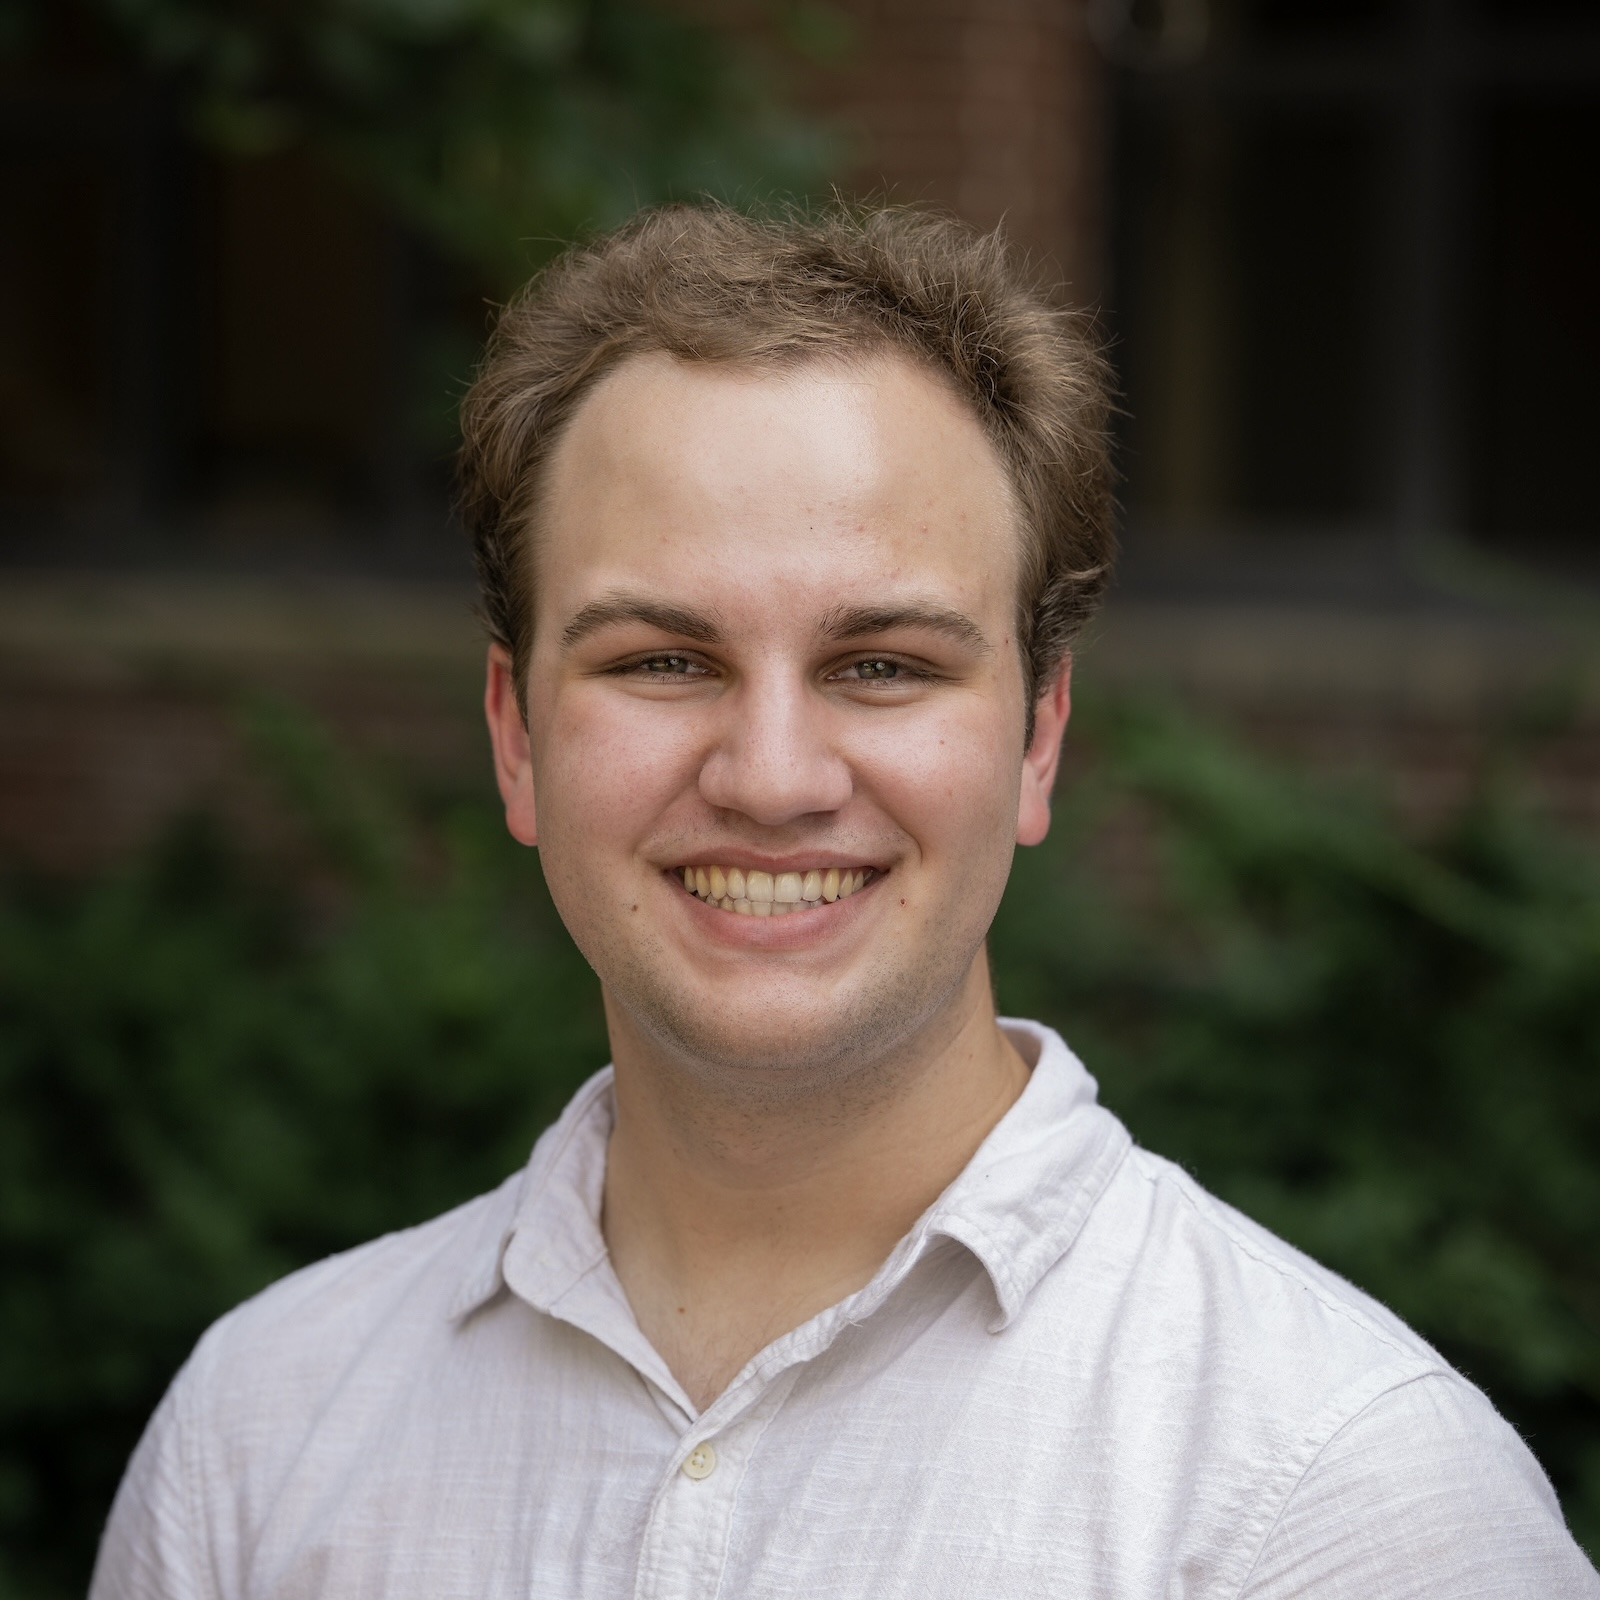
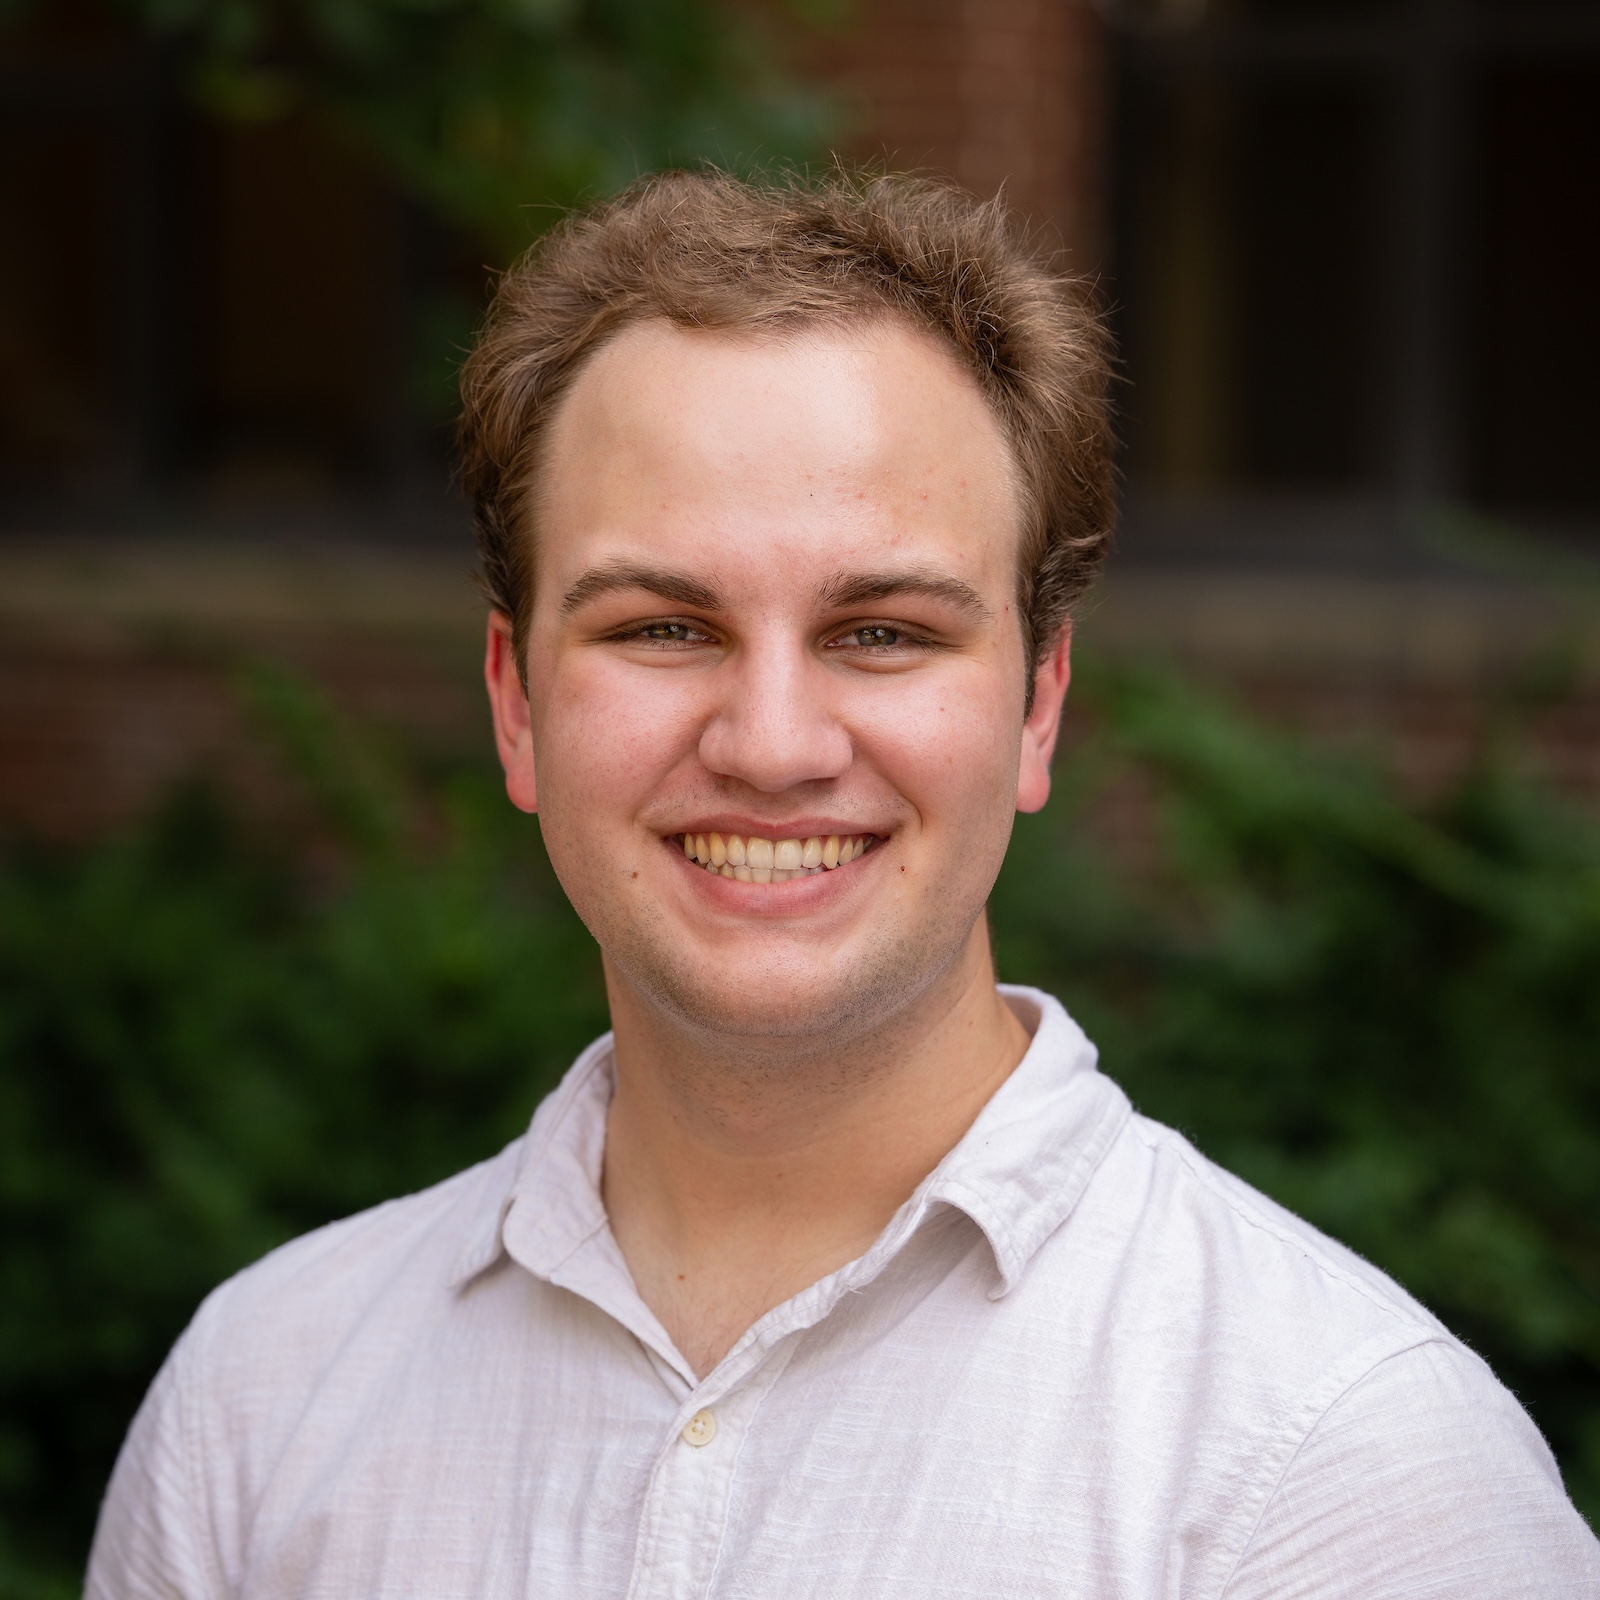
Change profile pic filter

diff --git a/project/biostat882project/index.html b/project/biostat882project/index.html
@@ -1073,7 +1073,7 @@
   <div class="media author-card content-widget-hr">
     
       
-      <a href="https://timwhite0.github.io/"><img class="avatar mr-3 avatar-circle" src="/authors/admin/avatar_hufab0aff3a142780f7219b3a0407422a6_476703_270x270_fill_q75_lanczos_center.jpg" alt="Tim White"></a>
+      <a href="https://timwhite0.github.io/"><img class="avatar mr-3 avatar-circle" src="/authors/admin/avatar_hufab0aff3a142780f7219b3a0407422a6_500962_270x270_fill_q75_lanczos_center.jpg" alt="Tim White"></a>
     
 
     <div class="media-body">

diff --git a/project/mlbdash/index.html b/project/mlbdash/index.html
@@ -1087,7 +1087,7 @@
   <div class="media author-card content-widget-hr">
     
       
-      <a href="https://timwhite0.github.io/"><img class="avatar mr-3 avatar-circle" src="/authors/admin/avatar_hufab0aff3a142780f7219b3a0407422a6_476703_270x270_fill_q75_lanczos_center.jpg" alt="Tim White"></a>
+      <a href="https://timwhite0.github.io/"><img class="avatar mr-3 avatar-circle" src="/authors/admin/avatar_hufab0aff3a142780f7219b3a0407422a6_500962_270x270_fill_q75_lanczos_center.jpg" alt="Tim White"></a>
     
 
     <div class="media-body">

diff --git a/project/stats601project/index.html b/project/stats601project/index.html
@@ -1071,7 +1071,7 @@
   <div class="media author-card content-widget-hr">
     
       
-      <a href="https://timwhite0.github.io/"><img class="avatar mr-3 avatar-circle" src="/authors/admin/avatar_hufab0aff3a142780f7219b3a0407422a6_476703_270x270_fill_q75_lanczos_center.jpg" alt="Tim White"></a>
+      <a href="https://timwhite0.github.io/"><img class="avatar mr-3 avatar-circle" src="/authors/admin/avatar_hufab0aff3a142780f7219b3a0407422a6_500962_270x270_fill_q75_lanczos_center.jpg" alt="Tim White"></a>
     
 
     <div class="media-body">

diff --git a/project/stats604creativity/index.html b/project/stats604creativity/index.html
@@ -1078,7 +1078,7 @@
   <div class="media author-card content-widget-hr">
     
       
-      <a href="https://timwhite0.github.io/"><img class="avatar mr-3 avatar-circle" src="/authors/admin/avatar_hufab0aff3a142780f7219b3a0407422a6_476703_270x270_fill_q75_lanczos_center.jpg" alt="Tim White"></a>
+      <a href="https://timwhite0.github.io/"><img class="avatar mr-3 avatar-circle" src="/authors/admin/avatar_hufab0aff3a142780f7219b3a0407422a6_500962_270x270_fill_q75_lanczos_center.jpg" alt="Tim White"></a>
     
 
     <div class="media-body">

diff --git a/project/stats604weather/index.html b/project/stats604weather/index.html
@@ -1078,7 +1078,7 @@
   <div class="media author-card content-widget-hr">
     
       
-      <a href="https://timwhite0.github.io/"><img class="avatar mr-3 avatar-circle" src="/authors/admin/avatar_hufab0aff3a142780f7219b3a0407422a6_476703_270x270_fill_q75_lanczos_center.jpg" alt="Tim White"></a>
+      <a href="https://timwhite0.github.io/"><img class="avatar mr-3 avatar-circle" src="/authors/admin/avatar_hufab0aff3a142780f7219b3a0407422a6_500962_270x270_fill_q75_lanczos_center.jpg" alt="Tim White"></a>
     
 
     <div class="media-body">

diff --git a/project/stats608project/index.html b/project/stats608project/index.html
@@ -1079,7 +1079,7 @@
   <div class="media author-card content-widget-hr">
     
       
-      <a href="https://timwhite0.github.io/"><img class="avatar mr-3 avatar-circle" src="/authors/admin/avatar_hufab0aff3a142780f7219b3a0407422a6_476703_270x270_fill_q75_lanczos_center.jpg" alt="Tim White"></a>
+      <a href="https://timwhite0.github.io/"><img class="avatar mr-3 avatar-circle" src="/authors/admin/avatar_hufab0aff3a142780f7219b3a0407422a6_500962_270x270_fill_q75_lanczos_center.jpg" alt="Tim White"></a>
     
 
     <div class="media-body">

diff --git a/publication/white_algeri_2022/index.html b/publication/white_algeri_2022/index.html
@@ -1129,7 +1129,7 @@
   <div class="media author-card content-widget-hr">
     
       
-      <a href="https://timwhite0.github.io/"><img class="avatar mr-3 avatar-circle" src="/authors/admin/avatar_hufab0aff3a142780f7219b3a0407422a6_476703_270x270_fill_q75_lanczos_center.jpg" alt="Tim White"></a>
+      <a href="https://timwhite0.github.io/"><img class="avatar mr-3 avatar-circle" src="/authors/admin/avatar_hufab0aff3a142780f7219b3a0407422a6_500962_270x270_fill_q75_lanczos_center.jpg" alt="Tim White"></a>
     
 
     <div class="media-body">

diff --git a/publication/white_regier_2023/index.html b/publication/white_regier_2023/index.html
@@ -1125,7 +1125,7 @@
   <div class="media author-card content-widget-hr">
     
       
-      <a href="https://timwhite0.github.io/"><img class="avatar mr-3 avatar-circle" src="/authors/admin/avatar_hufab0aff3a142780f7219b3a0407422a6_476703_270x270_fill_q75_lanczos_center.jpg" alt="Tim White"></a>
+      <a href="https://timwhite0.github.io/"><img class="avatar mr-3 avatar-circle" src="/authors/admin/avatar_hufab0aff3a142780f7219b3a0407422a6_500962_270x270_fill_q75_lanczos_center.jpg" alt="Tim White"></a>
     
 
     <div class="media-body">

diff --git a/talk/estimating-the-lifetime-risk-of-a-false-positive-screening-test-result/index.html b/talk/estimating-the-lifetime-risk-of-a-false-positive-screening-test-result/index.html
@@ -1131,7 +1131,7 @@
   <div class="media author-card content-widget-hr">
     
       
-      <a href="https://timwhite0.github.io/"><img class="avatar mr-3 avatar-circle" src="/authors/admin/avatar_hufab0aff3a142780f7219b3a0407422a6_476703_270x270_fill_q75_lanczos_center.jpg" alt="Tim White"></a>
+      <a href="https://timwhite0.github.io/"><img class="avatar mr-3 avatar-circle" src="/authors/admin/avatar_hufab0aff3a142780f7219b3a0407422a6_500962_270x270_fill_q75_lanczos_center.jpg" alt="Tim White"></a>
     
 
     <div class="media-body">

diff --git a/talk/sequential-monte-carlo-for-detecting-and-deblending-objects-in-astronomical-images/index.html b/talk/sequential-monte-carlo-for-detecting-and-deblending-objects-in-astronomical-images/index.html
@@ -1144,7 +1144,7 @@
   <div class="media author-card content-widget-hr">
     
       
-      <a href="https://timwhite0.github.io/"><img class="avatar mr-3 avatar-circle" src="/authors/admin/avatar_hufab0aff3a142780f7219b3a0407422a6_476703_270x270_fill_q75_lanczos_center.jpg" alt="Tim White"></a>
+      <a href="https://timwhite0.github.io/"><img class="avatar mr-3 avatar-circle" src="/authors/admin/avatar_hufab0aff3a142780f7219b3a0407422a6_500962_270x270_fill_q75_lanczos_center.jpg" alt="Tim White"></a>
     
 
     <div class="media-body">

diff --git a/index.html b/index.html
@@ -911,7 +911,7 @@
       
       <img class="avatar avatar-circle"
            width="270" height="270"
-           src="/authors/admin/avatar_hufab0aff3a142780f7219b3a0407422a6_476703_270x270_fill_q75_lanczos_center.jpg" alt="Tim White">
+           src="/authors/admin/avatar_hufab0aff3a142780f7219b3a0407422a6_500962_270x270_fill_q75_lanczos_center.jpg" alt="Tim White">
       
 
       <div class="portrait-title">
